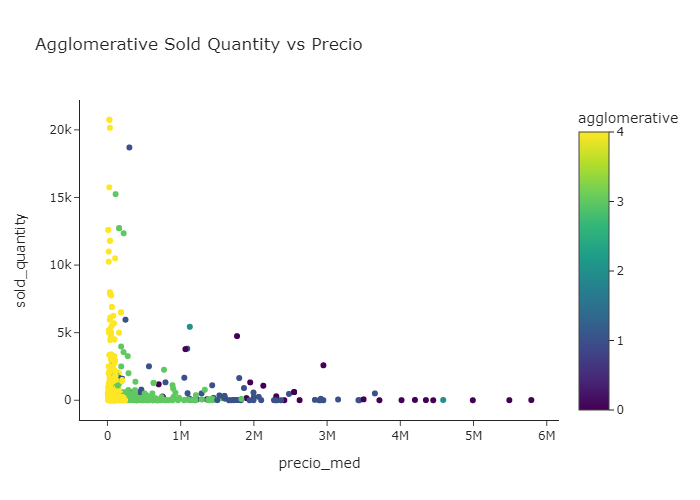
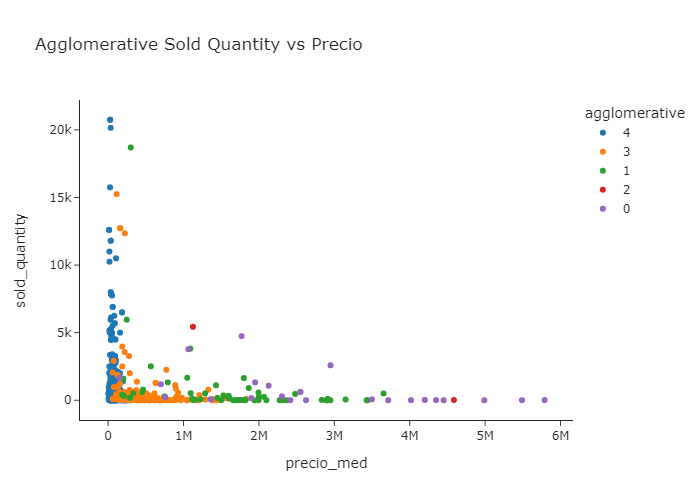
Cambio en imagenes nuevamente

diff --git a/model.py b/model.py
@@ -48,6 +48,7 @@ metric_agglo = silhouette_score(dfp, ac_df)
 
 # ,'sold_quantity','antiguedad'
 df.groupby('agglomerative')[['title']].describe()
+df['agglomerative'] = df.agglomerative.astype(str)
 
 # Plots
 px.scatter(df, x='title', y='price_med', template='simple_white',
@@ -80,5 +81,6 @@ fig.write_image('Imagenes/scatter.png')
 fig = px.scatter(df, y='completados', x='antiguedad',
                  title='Agglomerative Sold Quantity vs Precio', template='simple_white', color='agglomerative')
 fig.update_layout(xaxis_range=[0, 5000])
+fig.update_layout(yaxis_range=[0, 50000])
 fig.show()
 fig.write_image('Imagenes/scatter_ant.png')
